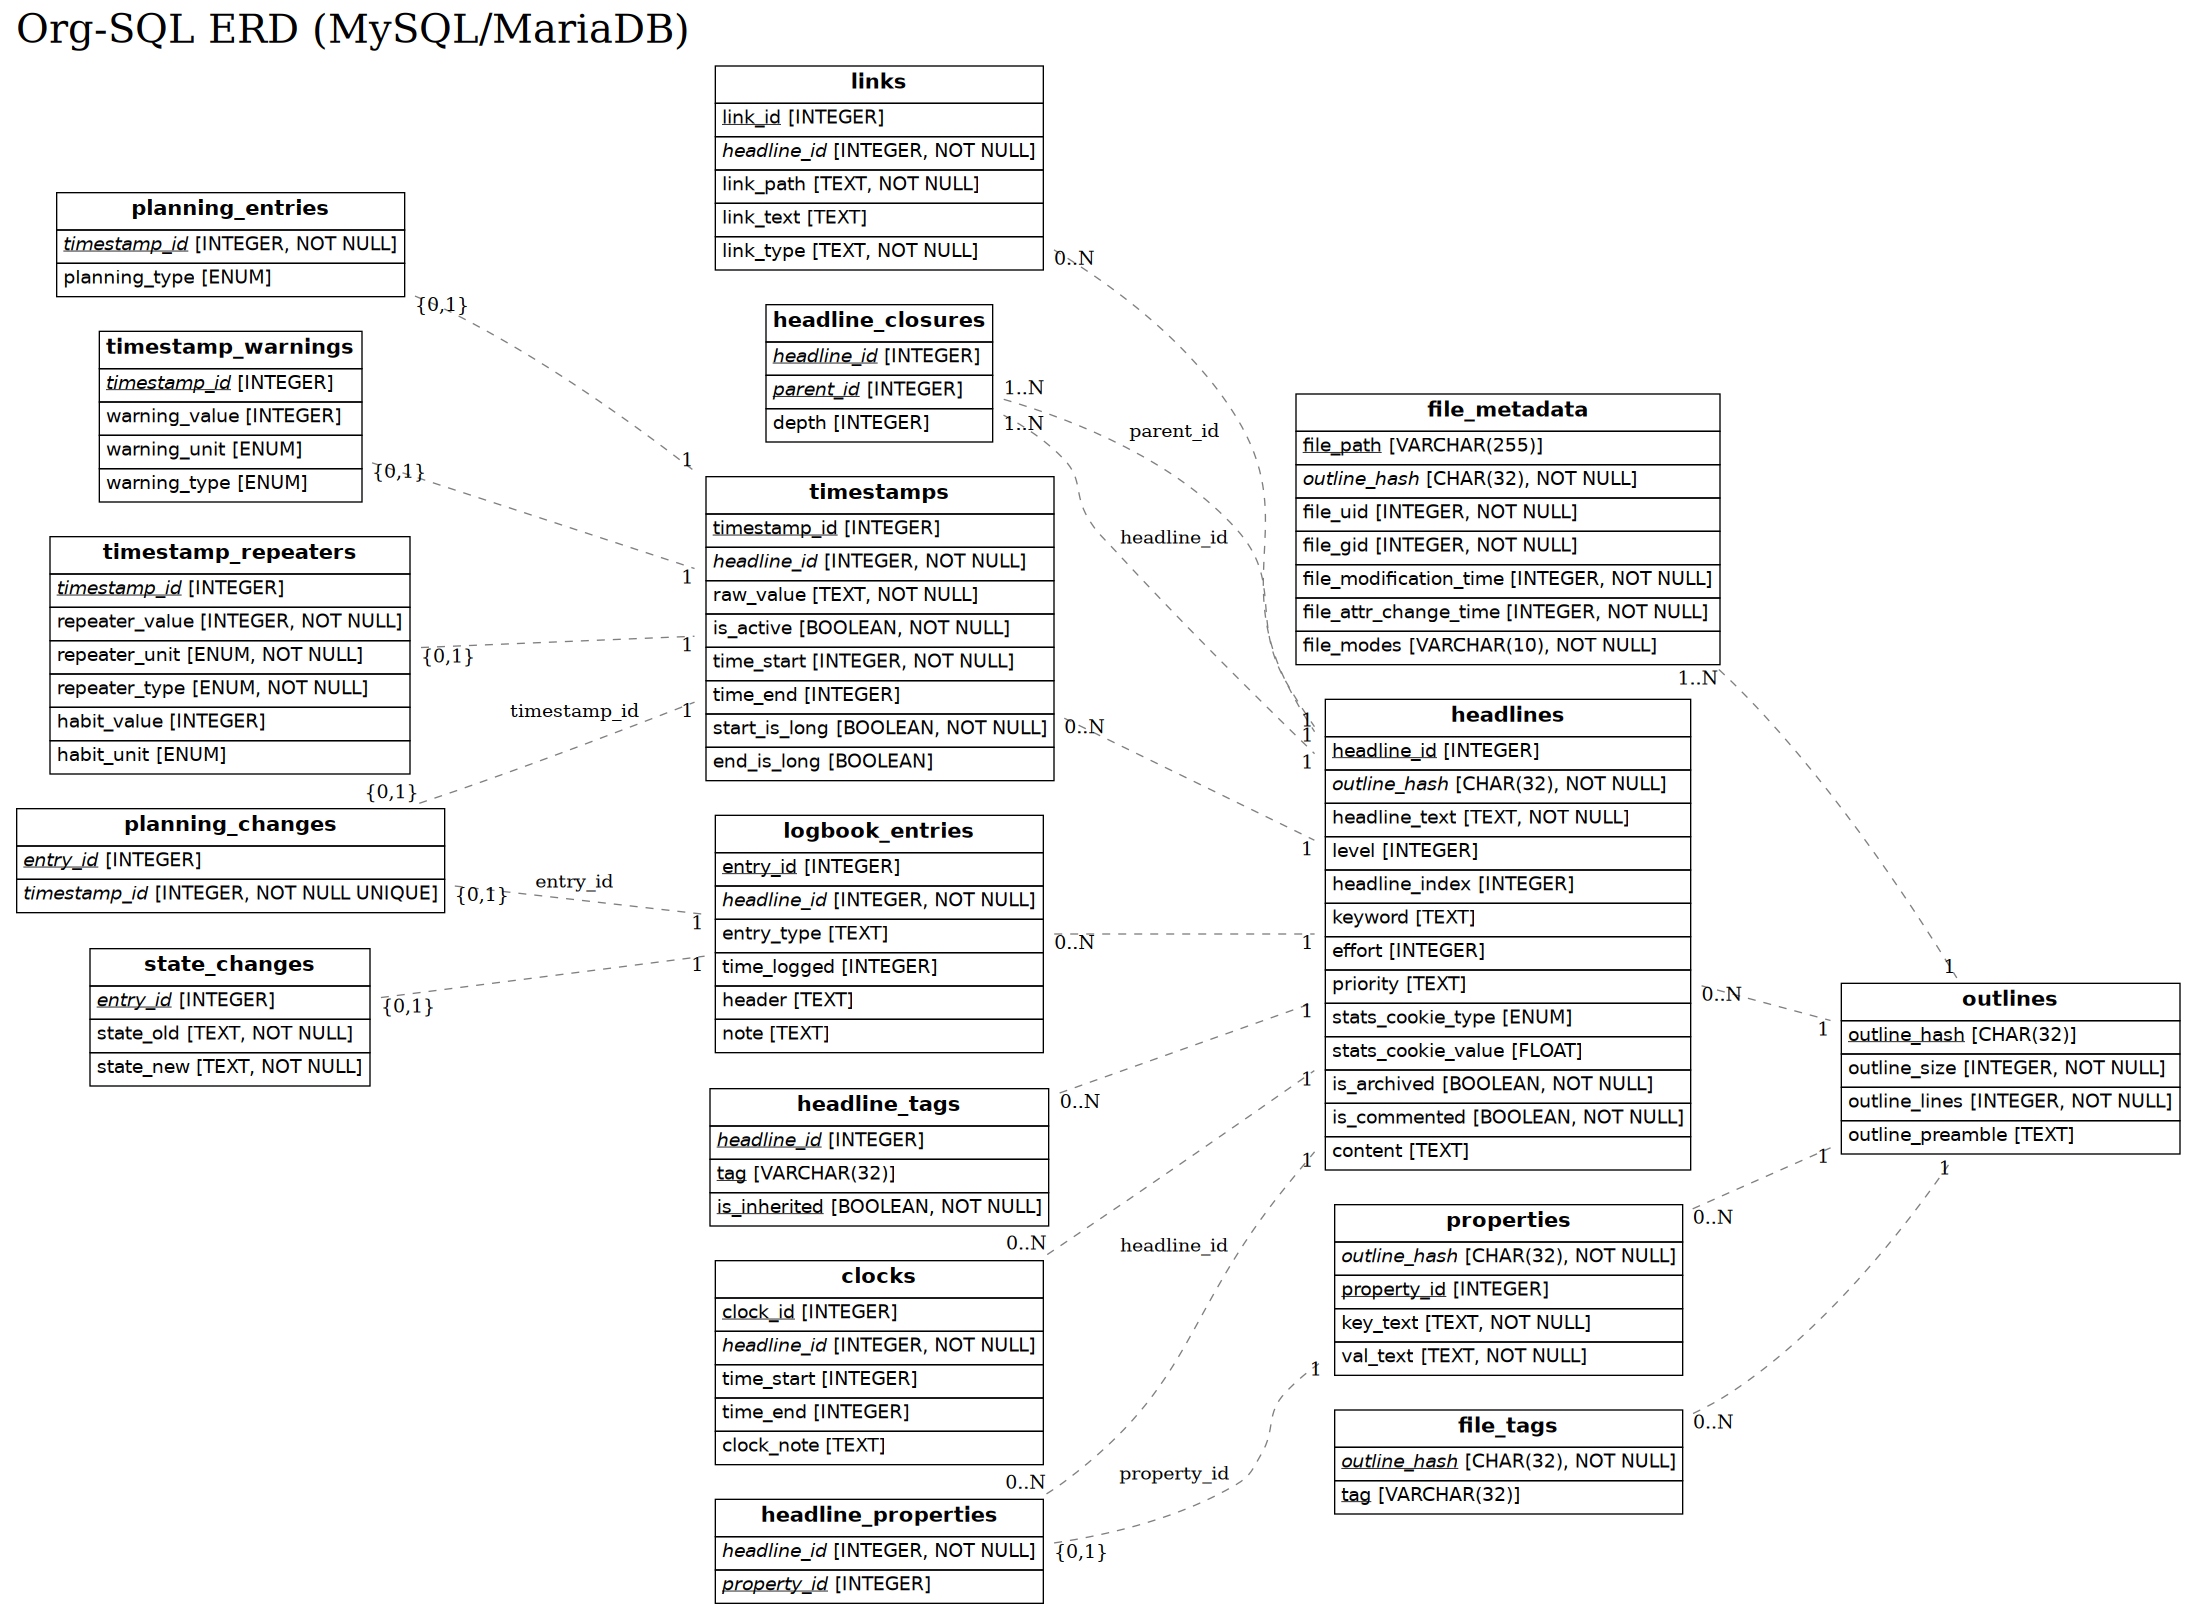
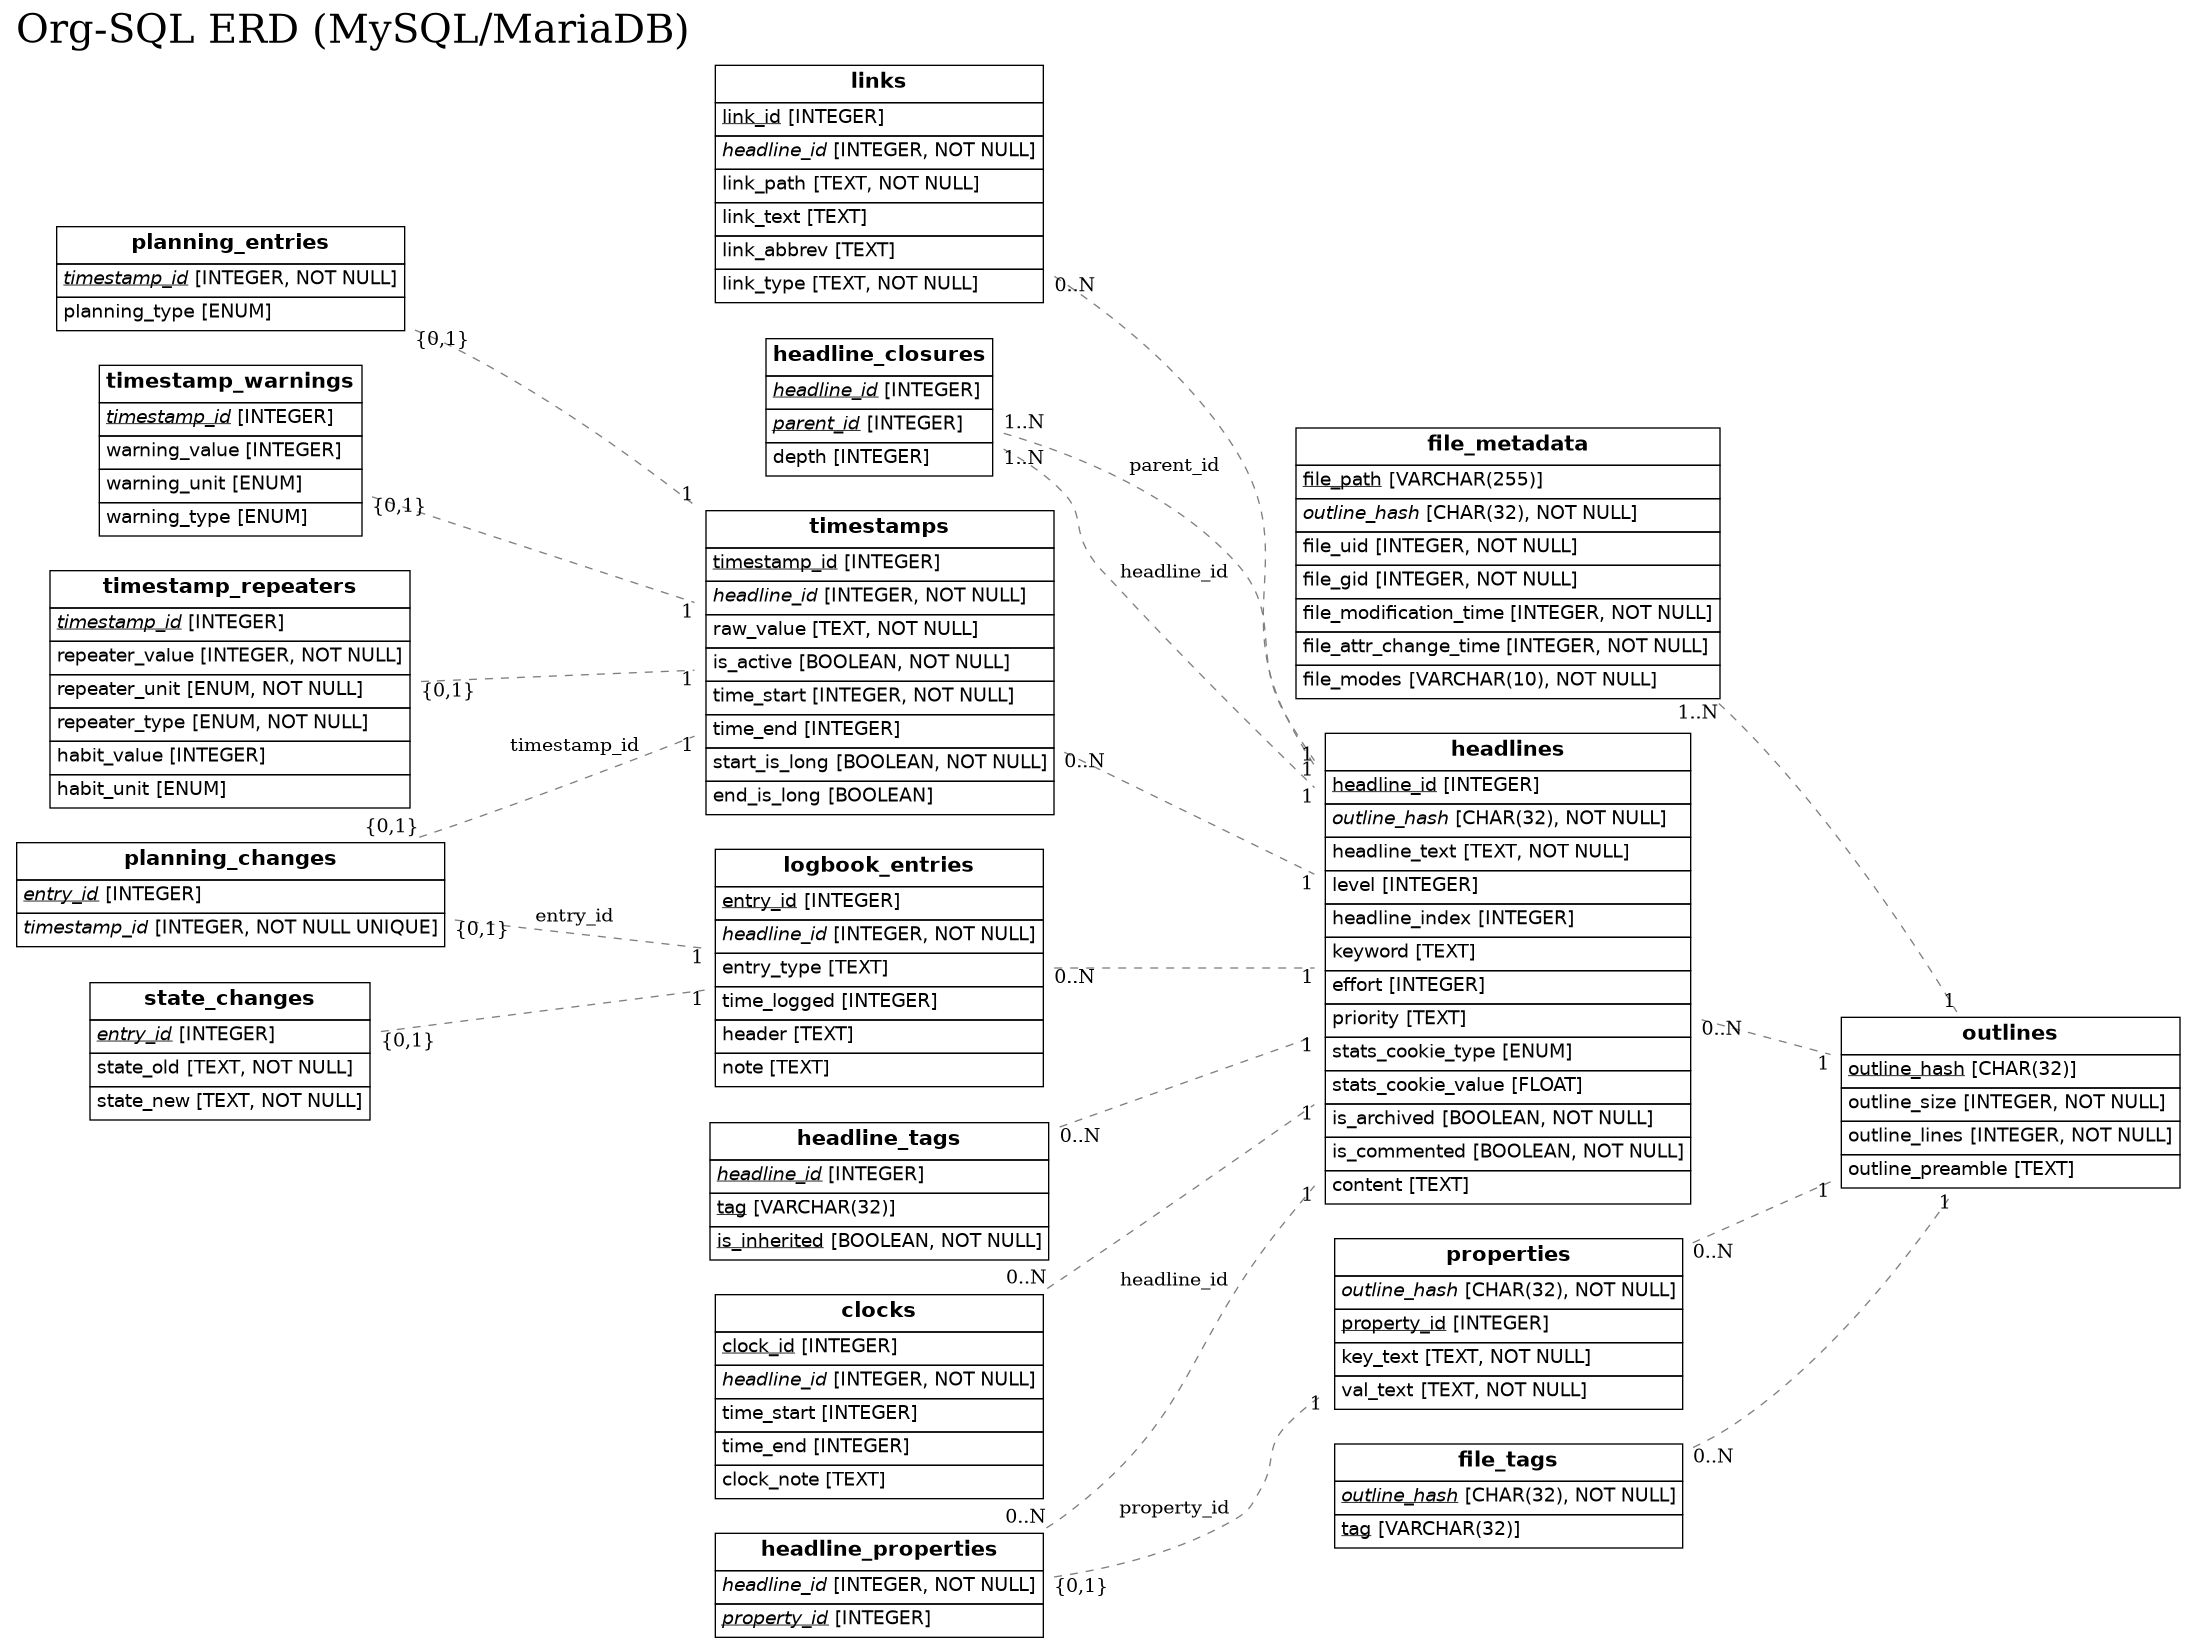
ENH update docs

diff --git a/doc/table-descriptions.md b/doc/table-descriptions.md
@@ -196,6 +196,7 @@ Each row stores one link.
 | headline_id | id of the headline for this link |
 | link_path | target of this link (eg url, file path, etc) |
 | link_text | text of this link that isn't part of the path |
+| link_abbrev | abbreviation for this link |
 | link_type | type of this link (eg http, mu4e, file, etc) |
 
-Version: 3.0.1
+Version: 3.0.4
